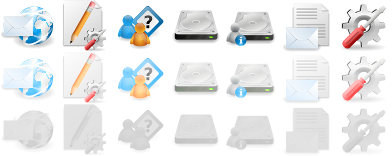
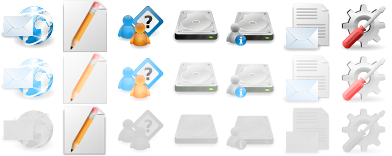
smaller design modifications

Changed region(s): [[0.1531, 0.0, 0.2755, 1.0], [0.1531, 0.7179, 0.1837, 0.7436]]

diff --git a/chrome/skin/classic/v_identity/v_identity.css b/chrome/skin/classic/v_identity/v_identity.css
@@ -46,9 +46,9 @@ radio#emailOut:hover 		{ -moz-image-region: rect(52px, 56px, 104px, 0px) }
 radio#storageOut 			{ -moz-image-region: rect(0px, 280px, 52px, 224px) }
 radio#storageOut[feature="off"] 	{ -moz-image-region: rect(104px, 280px, 156px, 224px) }
 radio#storageOut:hover 			{ -moz-image-region: rect(52px, 280px, 104px, 224px) }
-radio#options 			{ -moz-image-region: rect(0px, 396px, 52px, 338px) }
-radio#options[feature="off"] 	{ -moz-image-region: rect(104px, 396px, 156px, 338px) }
-radio#options:hover 		{ -moz-image-region: rect(52px, 396px, 104px, 338px) }
+radio#options 			{ -moz-image-region: rect(0px, 393px, 52px, 335px) }
+radio#options[feature="off"] 	{ -moz-image-region: rect(104px, 393px, 156px, 335px) }
+radio#options:hover 		{ -moz-image-region: rect(52px, 393px, 104px, 335px) }
 
 #viewGroup image.arrow {
   list-style-image: url("chrome://v_identity/skin/Arrows.png");
